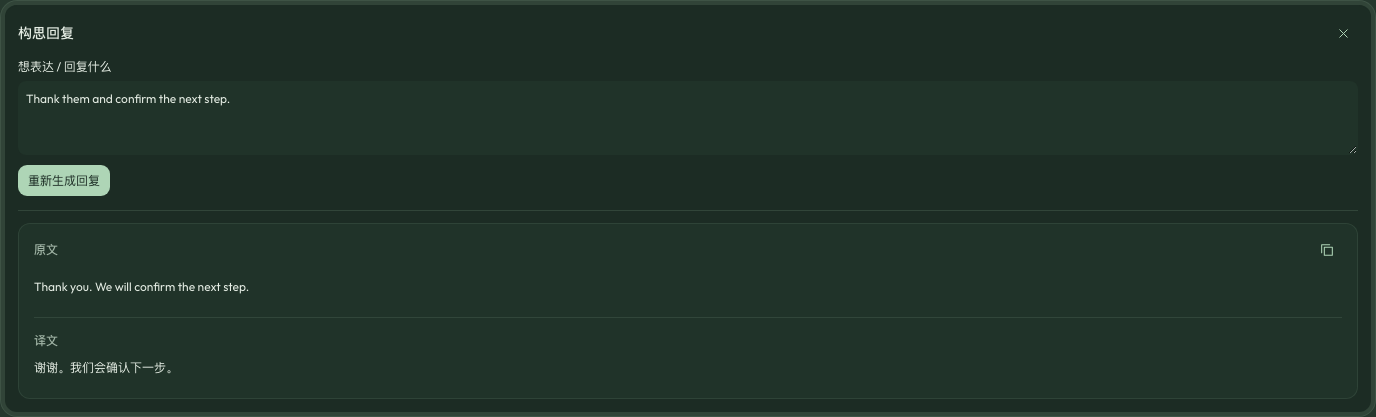
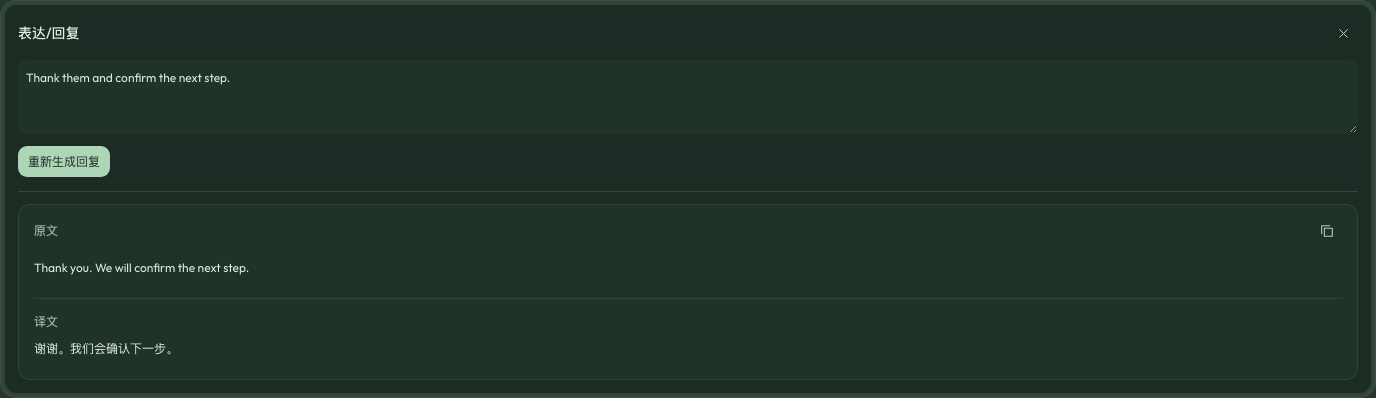
ui: streamline prompt guidance and reply wording

diff --git a/tests/ui/workflow.spec.ts b/tests/ui/workflow.spec.ts
@@ -348,7 +348,7 @@ test("reply remains local until Generate; streaming copy excludes back-translati
 }) => {
   await setup(page);
   await page
-    .getByRole("button", { name: "Compose reply", exact: true })
+    .getByRole("button", { name: "Write / Reply", exact: true })
     .click();
   await page
     .getByRole("textbox", { name: "Reply intent" })
@@ -410,7 +410,7 @@ test("reply remains local until Generate; streaming copy excludes back-translati
     ),
   ).toEqual([]);
   await page
-    .getByRole("button", { name: "Compose reply", exact: true })
+    .getByRole("button", { name: "Write / Reply", exact: true })
     .click();
   await expect(
     page.getByRole("region", { name: "Generated reply" }),
@@ -724,7 +724,7 @@ test("reply drawer supports dark narrow windows, reduced motion and Escape focus
     w.emit("configuration-changed", w.settings);
   });
   const trigger = page.getByRole("button", {
-    name: "Compose reply",
+    name: "Write / Reply",
     exact: true,
   });
   await trigger.click();
@@ -762,7 +762,7 @@ test("operation events reject old revisions, retain a single past attempt and ke
 }) => {
   await setup(page);
   await page
-    .getByRole("button", { name: "Compose reply", exact: true })
+    .getByRole("button", { name: "Write / Reply", exact: true })
     .click();
   await page.getByRole("textbox", { name: "Reply intent" }).fill("Thank them.");
   await page
@@ -1156,7 +1156,7 @@ test("unknown reply language points to the existing source language control with
         : original(cmd, args);
   });
   await page
-    .getByRole("button", { name: "Compose reply", exact: true })
+    .getByRole("button", { name: "Write / Reply", exact: true })
     .click();
   await page
     .getByRole("textbox", { name: "Reply intent" })
@@ -1225,7 +1225,7 @@ test('reply regeneration sends the latest intent separately from quoted examples
  await setup(page);
  const context='Tell us who handles support ("Alice is our technical contact"). Good news: the node is healthy again.';
  await page.evaluate(context=>{const w=window as any;w.task.original_text=context;w.task.edited_text=null;w.task.source_revision++;w.task.revision++;w.update();},context);
- await page.getByRole('button',{name:'Compose reply',exact:true}).click();
+ await page.getByRole('button',{name:'Write / Reply',exact:true}).click();
  let previous:string|null=null;
  for(const [index,name] of ['Morgan','Riley'].entries()){
   await page.getByRole('textbox',{name:'Reply intent'}).fill(`${name}是我们的技术联系人。`);
@@ -1244,7 +1244,10 @@ test('reply regeneration sends the latest intent separately from quoted examples
 
 test('reply shows original and translation directly with one copy icon safely inside the top-right header',async({page})=>{
  await setup(page);
- await page.getByRole('button',{name:'Compose reply',exact:true}).click();
+ await page.getByRole('button',{name:'Write / Reply',exact:true}).click();
+
+ await expect(page.getByRole('dialog',{name:'Write / Reply'}).getByRole('heading',{name:'Write / Reply',exact:true})).toBeVisible();
+ await expect(page.getByRole('dialog')).not.toContainText('What would you like to say?');
  await page.getByRole('textbox',{name:'Reply intent'}).fill('Thank them and confirm the next step.');
  await page.getByRole('button',{name:'Generate reply',exact:true}).click();
  const output=page.getByRole('region',{name:'Generated reply'});

diff --git a/src/PromptSettings.svelte b/src/PromptSettings.svelte
@@ -57,17 +57,6 @@
       >{t("恢复内置", "Restore built-in")}</button
     >
   </div>
-  <p class="subtle">
-    {kind === "translation"
-      ? t(
-          "所有模型服务默认引用这套翻译提示词；服务中可单独自定义。",
-          "Model services use these translation instructions by default. Each service can override them.",
-        )
-      : t(
-          "结合原文理解你的意思，把回复优化成目标读者习惯的自然表达，不添加你未提供的承诺或事实。",
-          "Use source context to express your intent naturally for the reader, without adding facts or commitments you did not provide.",
-        )}
-  </p>
   {#if kind === "reply" && replyLoading}<p class="subtle" role="status">
       {t("正在读取内置提示词…", "Loading built-in instructions…")}
     </p>{/if}
@@ -75,6 +64,7 @@
       {replyError}
     </p>{/if}
   <textarea
+    aria-describedby="global-prompt-help"
     class:default-prompt={!custom?.trim()}
     aria-label={kind === "translation"
       ? t("翻译提示词", "Translation prompt")
@@ -84,10 +74,15 @@
     rows="15"
     maxlength="32000"
     spellcheck="false"></textarea>
-  <small class="subtle"
-    >{t(
-      "修改后点击保存。清空内容会恢复内置提示词。",
-      "Click Save after editing. Empty content uses the built-in instructions.",
-    )}</small
-  >
+  <small id="global-prompt-help" class="subtle prompt-help">
+    {kind === "translation"
+      ? t(
+          "模型服务默认使用，可按服务自定义。修改后保存，清空恢复内置。",
+          "Default for model services; override per service. Save edits; clear to restore built-in.",
+        )
+      : t(
+          "结合原文自然表达你的意思，不新增事实或承诺。修改后保存，清空恢复内置。",
+          "Use context to express your intent naturally, without added facts or promises. Save edits; clear to restore built-in.",
+        )}
+  </small>
 </section>

diff --git a/tests/ui/settings.spec.ts b/tests/ui/settings.spec.ts
@@ -450,6 +450,12 @@ test('free defaults, tier labels and live OpenRouter filtering retain exact mode
 test('shared translation and reply prompts save independently and services inherit or override them',async({page})=>{
  await settingsFixture(page);await page.getByRole('button',{name:'Prompts',exact:true}).click();
  const translation=page.getByRole('textbox',{name:'Translation prompt',exact:true});await expect(translation).toHaveValue(/Mode: sentence translation/);
+ await expect(translation).toHaveAttribute('aria-describedby','global-prompt-help');
+ const help=page.locator('.global-prompts .prompt-help');await expect(help).toHaveCount(1);
+ await expect(help).toContainText('override per service');
+ expect((await help.boundingBox())!.y).toBeGreaterThanOrEqual((await translation.boundingBox())!.y+(await translation.boundingBox())!.height);
+ await expect(page.locator('.global-prompts > p.subtle:not([role])')).toHaveCount(0);
+
  await page.screenshot({path:'artifacts/previews/reading-workflow-prompts-simple.png'});
  await expect(page.getByRole('button',{name:'Save changes',exact:true})).toBeDisabled();
  await translation.fill('Keep domain terms precise.');await page.getByRole('button',{name:'Save changes',exact:true}).click();expect(await page.evaluate(()=>(window as any).settings.translation_prompt)).toBe('Keep domain terms precise.');

diff --git a/src/GettingStarted.svelte b/src/GettingStarted.svelte
@@ -249,7 +249,7 @@
       <h3>{t("系统词典 · 无需 API", "System dictionary · No API key")}</h3>
       <p>
         {t(
-          "查询单词和短语；不提供整句翻译、语境解析或构思回复。",
+          "查询单词和短语；不提供整句翻译、语境解析或表达/回复。",
           "Definitions for words and phrases. It does not translate passages, explain context or compose replies.",
         )}
       </p>
@@ -292,7 +292,7 @@
       </h3>
       <p>
         {t(
-          "选择服务商，填写 API 凭据和模型，测试后保存。支持生成的模型服务还可解析语境、构思回复；普通翻译 API 按实际能力使用。",
+          "选择服务商，填写 API 凭据和模型，测试后保存。支持生成的模型服务还可解析语境、表达/回复；普通翻译 API 按实际能力使用。",
           "Choose a provider, enter credentials and a model, then test and save. Generative model services also support context explanations and replies; other translation APIs have fewer capabilities.",
         )}
       </p>

diff --git a/src/AssistantOperations.svelte b/src/AssistantOperations.svelte
@@ -241,7 +241,7 @@
   ><button
     disabled={!sourceText.trim() || !!task?.sensitive}
     aria-expanded={open === "reply"}
-    onclick={(e) => show("reply", e)}>{t("构思回复", "Compose reply")}</button
+    onclick={(e) => show("reply", e)}>{t("表达/回复", "Write / Reply")}</button
   >{#if !open && activeRecords.some( (r) => ["queued", "generating"].includes(r.status) )}<small
       role="status"
       >{t("独立任务正在生成", "An assistant task is generating")}</small
@@ -255,7 +255,7 @@
     role="dialog"
     aria-modal="false"
     aria-label={open === "reply"
-      ? t("回复抽屉", "Reply drawer")
+      ? t("表达/回复", "Write / Reply")
       : t("语境解析", "Context explanation")}
     onkeydown={(e) => {
       if (e.key === "Escape") {
@@ -269,7 +269,7 @@
       <header>
         <h2>
           {open === "reply"
-            ? t("构思回复", "Compose reply")
+            ? t("表达/回复", "Write / Reply")
             : t("语境解析", "Explain context")}
         </h2>
         <button

diff --git a/src/ReplyDrawer.svelte b/src/ReplyDrawer.svelte
@@ -17,17 +17,15 @@
 </script>
 
 <div class="reply-compose">
-  <label
-    >{t("想表达 / 回复什么", "What would you like to say?")}<textarea
-      aria-label={t("回复意图", "Reply intent")}
-      bind:value={intent}
-      maxlength="50000"
-      rows="3"
-      placeholder={t(
-        "写下意思或要点，会结合原文优化成自然的回复。",
-        "Write your meaning or key points. The source context helps shape a natural reply.",
-      )}></textarea></label
-  >
+  <textarea
+    aria-label={t("回复意图", "Reply intent")}
+    bind:value={intent}
+    maxlength="50000"
+    rows="3"
+    placeholder={t(
+      "写下想表达的意思或要点…",
+      "Write your meaning or key points…",
+    )}></textarea>
   <button class="primary" disabled={busy || !intent.trim()} onclick={onGenerate}
     >{hasOutput
       ? t("重新生成回复", "Regenerate reply")

diff --git a/tests/ui/disclosure.spec.ts b/tests/ui/disclosure.spec.ts
@@ -1524,7 +1524,7 @@ test('wide reader aligns both handles, fills fixed window insets, and keeps assi
  await expect.poll(async()=>{const g=await geometry();return Math.abs(g.bottom-24);}).toBeLessThan(2);
  g=await geometry();expect(g.left).toBe(24);expect(g.right).toBe(24);expect(g.aligned).toBeLessThan(1);
  const baseHeight=g.height;
- await page.getByRole('button',{name:'Compose reply',exact:true}).click();
+ await page.getByRole('button',{name:'Write / Reply',exact:true}).click();
  await expect(page.locator('.assistant-drawer')).toBeVisible();
  await expect.poll(async()=>(await geometry()).height).toBe(baseHeight);
  expect((await geometry()).aligned).toBeLessThan(1);

diff --git a/src/workflow.css b/src/workflow.css
@@ -658,3 +658,21 @@
 .operation-output .reply-result-card .translation-prose {
   padding: 8px 0;
 }
+
+.global-prompts .prompt-help {
+  display: block;
+  line-height: 1.6;
+}
+.reply-compose {
+  display: grid;
+  gap: 12px;
+  margin-top: 12px;
+}
+.reply-compose > textarea {
+  display: block;
+  margin: 0;
+  font-size: 12px;
+}
+.reply-compose > button {
+  justify-self: start;
+}

diff --git a/docs/FAQ_cn.md b/docs/FAQ_cn.md
@@ -21,7 +21,7 @@
 
 首次启动会显示“权限准备 → 选择服务 → 基础操作”。可按需要授权，也可选择“稍后设置”；已完成或跳过的引导不会在每次启动时重复弹出。标题栏的 **齿轮**、应用菜单、托盘和 `⌘,` 都可打开设置，**问号**或「设置 → 使用帮助」可重播教程。引导打开时再次点击标题栏问号，与“稍后设置”相同：记住跳过状态并返回阅读，保留当前原文。空白阅读页不再重复显示引导横幅。
 
-点击翻译窗口的服务／模型名称，会直接打开对应服务配置。修改模型后点击“保存设置”；修改快捷键请打开「翻译与快捷键」。系统词典适合单词和短语，整句翻译需要翻译服务；语境解析与构思回复需要支持生成的模型服务。填写配置不代表连接已验证，可主动使用固定示例测试连接。
+点击翻译窗口的服务／模型名称，会直接打开对应服务配置。修改模型后点击“保存设置”；修改快捷键请打开「翻译与快捷键」。系统词典适合单词和短语，整句翻译需要翻译服务；语境解析与表达/回复需要支持生成的模型服务。填写配置不代表连接已验证，可主动使用固定示例测试连接。
 
 基础教程使用独立演示，不发送网络请求、不覆盖原文、不改变剪贴板或写入历史。教程显示当前快捷键，而非固定假设默认键位。
 
@@ -37,7 +37,7 @@
 
 辅助功能用于跨应用取词，屏幕录制用于截图；仅手动输入、粘贴或本地查词不需要这两项权限。它们与应用签名、公证和钥匙串访问分别管理。更新开发包后，必要时在 Yurelay 的权限页面查看恢复指引。
 
-原文和译文的阅读区底部都有调高柄，可拖动或用上下方向键调整。宽窗口保持 24px 边距并默认铺满可用空间，左右阅读区及底部手柄对齐；拖动任一手柄会联动调整两栏，共同的高度比例单独保存。窄窗口上下排列，仍保留各自的调高设置。展开“构思回复”会向下延伸，不压缩上方阅读区。双击手柄或按 Home 恢复默认铺满；手动比例在收起展开、重新翻译和重启后保留。调整只影响内部阅读区，长内容在区域内滚动，外层窗口保持原尺寸。
+原文和译文的阅读区底部都有调高柄，可拖动或用上下方向键调整。宽窗口保持 24px 边距并默认铺满可用空间，左右阅读区及底部手柄对齐；拖动任一手柄会联动调整两栏，共同的高度比例单独保存。窄窗口上下排列，仍保留各自的调高设置。展开“表达/回复”会向下延伸，不压缩上方阅读区。双击手柄或按 Home 恢复默认铺满；手动比例在收起展开、重新翻译和重启后保留。调整只影响内部阅读区，长内容在区域内滚动，外层窗口保持原尺寸。
 
 <a id="workflow"></a>
 
@@ -57,9 +57,9 @@
 - **规范断行：** 捕获后默认在本机保守整理 PDF 句中换行；确实改变文本时可撤销。这不等同于语法纠错或任意改写。
 - **表格与公式：** OCR 坐标足够明确时，可手动应用表格整理并对照原图。公式在本地排版，失败时保留源码；可选“保留表格与公式结构”要求模型保留列、数字、单位和可辨认公式，但不能补回 OCR 已遗漏的符号。
 
-### 解析语境与构思回复
+### 解析语境与表达/回复
 
-选中片段后，主动生成语境解析；需要回应时，打开“构思回复”，用母语写下想表达的意思，再点击“生成回复”。回复结果直接显示“原文”和“译文”：原文是按当前服务与原文语种生成的回复，译文使用当前翻译语言。 回复应保留你在“回复意图”中填写的人名、事实和承诺；原文中的示例答案不是你的身份或要表达的内容。回译只针对生成的回复，不是重新翻译整段原文。
+选中片段后，主动生成语境解析；需要回应时，打开“表达/回复”，用母语写下想表达的意思，再点击“生成回复”。回复结果直接显示“原文”和“译文”：原文是按当前服务与原文语种生成的回复，译文使用当前翻译语言。 回复应保留你在“回复意图”中填写的人名、事实和承诺；原文中的示例答案不是你的身份或要表达的内容。回译只针对生成的回复，不是重新翻译整段原文。
 
 解析与回复都可以独立停止、重新生成并回看历史。回复框右上角的复制图标只复制回复原文，不含译文、标签和历史内容，也不会自动粘贴或发送。原文或意图改变后，旧回复会标记为过期，需主动重新生成。
 

diff --git a/docs/FAQ.md b/docs/FAQ.md
@@ -37,7 +37,7 @@ The current workflow produces ad-hoc-signed development builds without Apple not
 
 Accessibility enables selection from other apps; Screen Recording enables screenshots. Typing, pasting and local dictionary lookup do not require those two permissions. They are separate from signing, notarization and Keychain access. After updating a development build, consult Yurelay's permission recovery guide if needed.
 
-Drag the handle below either reading area to adjust its height, or focus it and use the arrow keys. Wide windows keep a 24px inset and fill the available space with aligned source and translation panels. Either handle adjusts both columns together; their shared proportion is saved separately from compact-window heights. Compact windows stack the panels and retain independent adjustments. Expanding Compose reply adds space below without shrinking the reader. Double-click or press Home to restore the default fit; manual proportions survive collapse, retranslation and restart. Long text scrolls inside a manually sized area; the outer window stays unchanged.
+Drag the handle below either reading area to adjust its height, or focus it and use the arrow keys. Wide windows keep a 24px inset and fill the available space with aligned source and translation panels. Either handle adjusts both columns together; their shared proportion is saved separately from compact-window heights. Compact windows stack the panels and retain independent adjustments. Expanding Write / Reply adds space below without shrinking the reader. Double-click or press Home to restore the default fit; manual proportions survive collapse, retranslation and restart. Long text scrolls inside a manually sized area; the outer window stays unchanged.
 
 <a id="workflow"></a>
 
@@ -59,7 +59,7 @@ Switching apps hides the result window by default; disable this in Appearance se
 
 ### Explain context and compose replies
 
-Select a passage to explicitly generate a contextual explanation. To respond, open Compose reply, describe your intent in your own language and choose Generate reply. The result shows Original and Translation directly. Original is the generated reply in the source language using the current service; Translation uses the current translation language. The reply should preserve names, facts and commitments in your reply intent; example answers in the original message are not your identity or intended response. The reference translates the generated reply, not the entire original message.
+Select a passage to explicitly generate a contextual explanation. To respond, open Write / Reply, describe your intent in your own language and choose Generate reply. The result shows Original and Translation directly. Original is the generated reply in the source language using the current service; Translation uses the current translation language. The reply should preserve names, facts and commitments in your reply intent; example answers in the original message are not your identity or intended response. The reference translates the generated reply, not the entire original message.
 
 Explanations and replies can each be stopped, regenerated and revisited in history independently. The copy icon in the top-right of the reply card copies only Original, excluding the translation, labels and history. It never pastes or sends automatically. Changing the source or intent marks the old reply as stale until you explicitly regenerate it.
 
